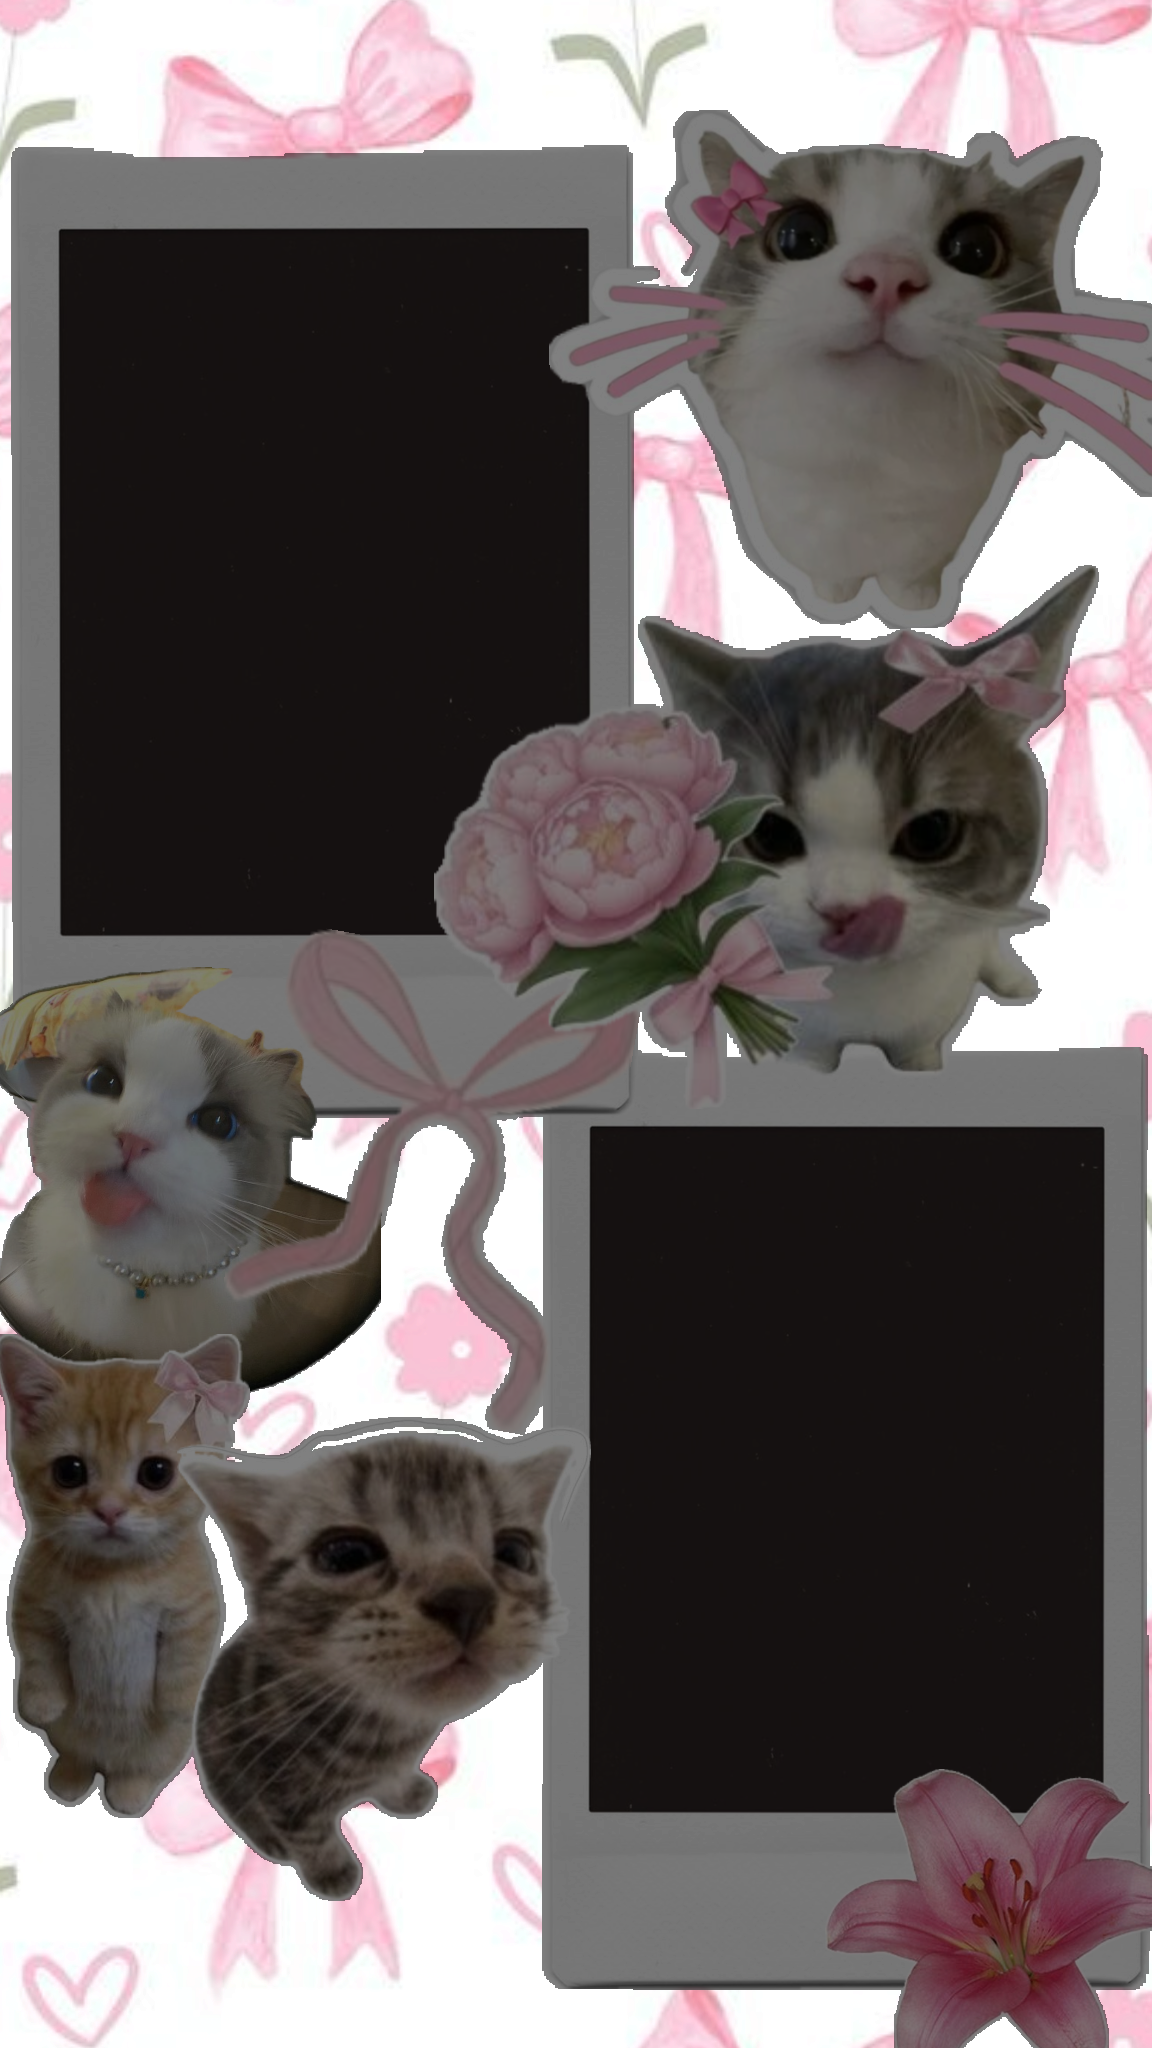
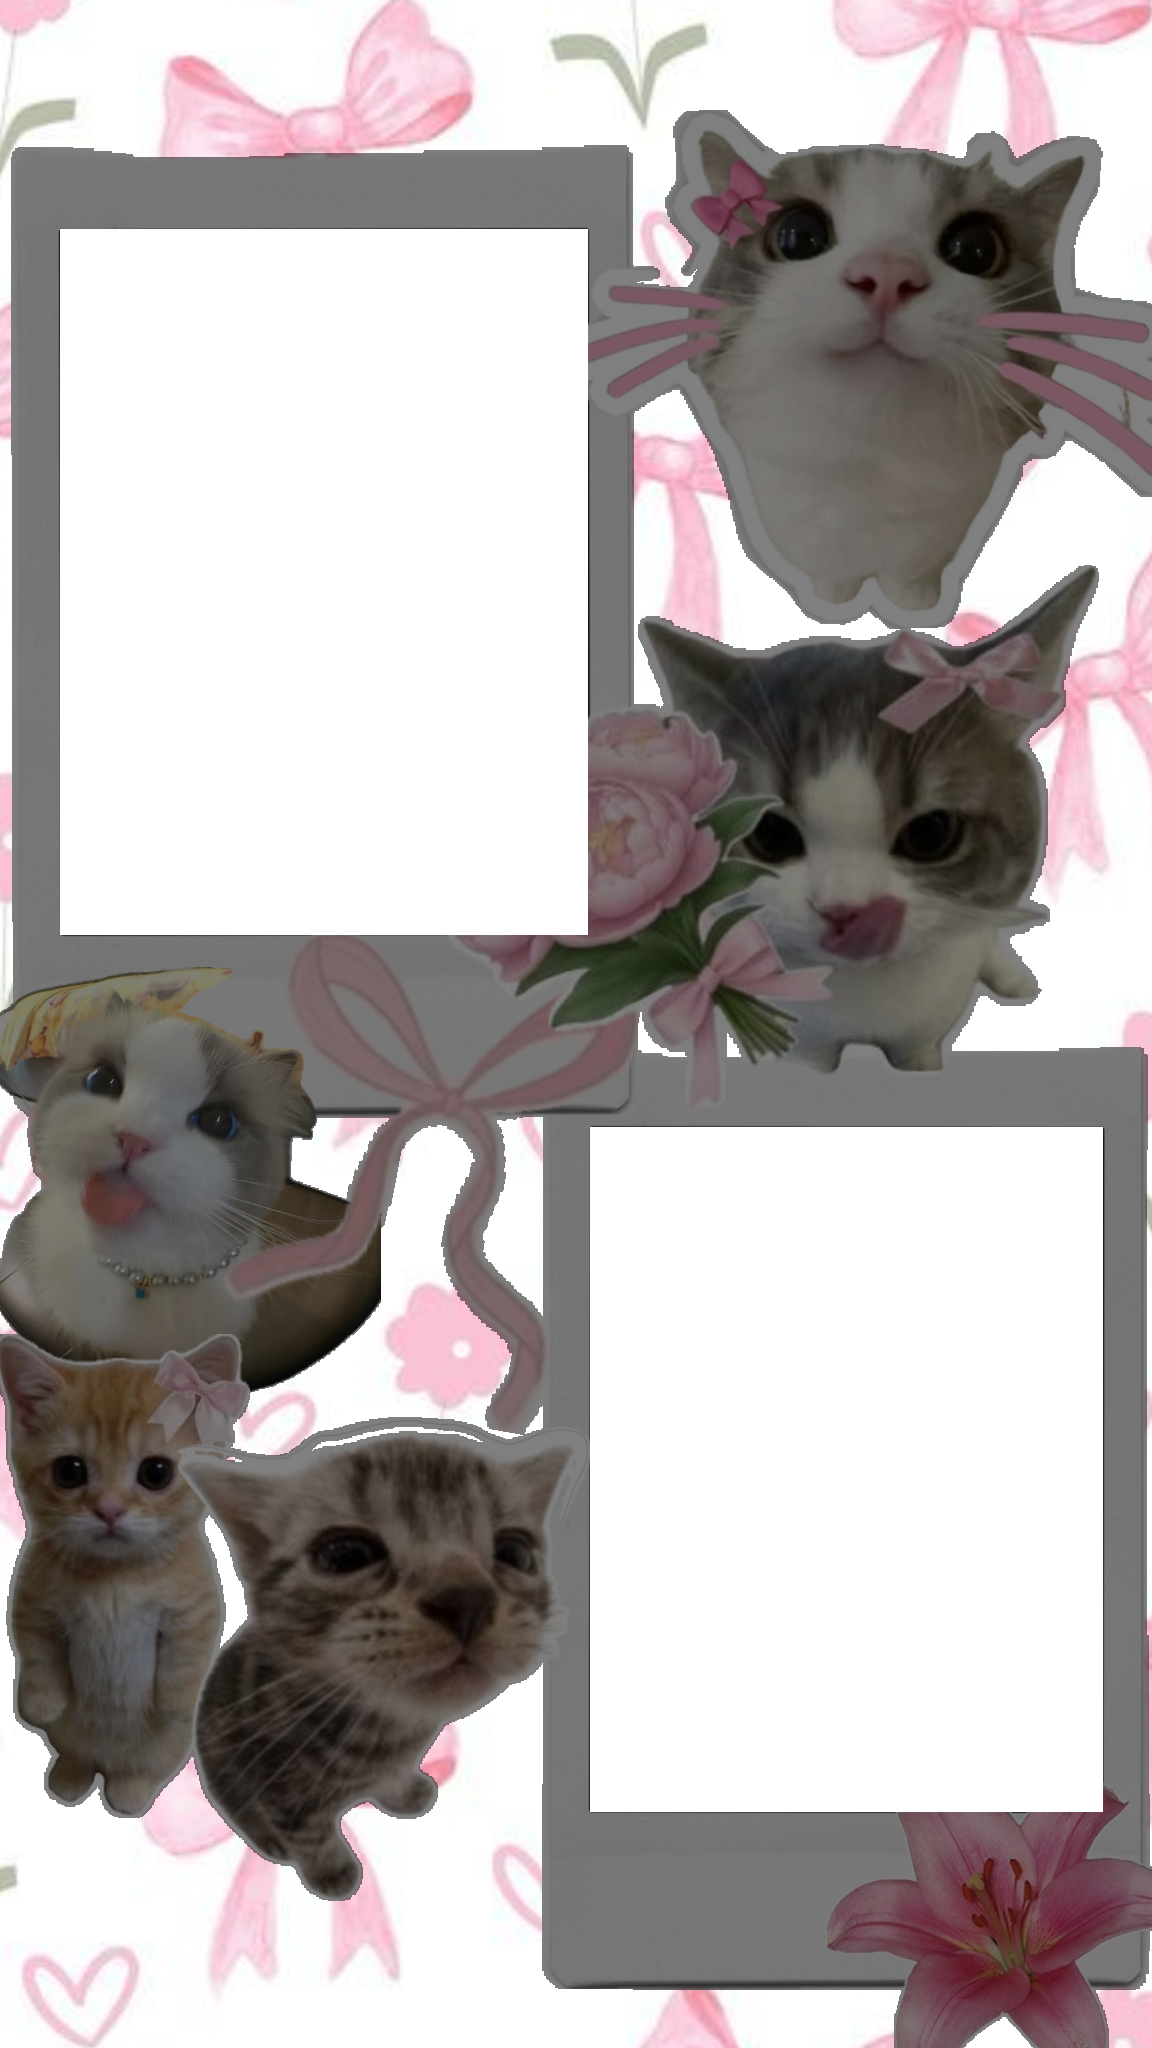
fix: make frame slots transparent and add cutout composite engine so photos appear in all frames

diff --git a/src/lib/compositor.js b/src/lib/compositor.js
@@ -244,9 +244,10 @@ function drawPhotoInSlot(ctx, photo, slot, scale = 1, isMirrored = false) {
   }
   ctx.clip();
 
-  // Hitung cover crop
-  const pw = photo.width;
-  const ph = photo.height;
+  // Dukung photo baik berupa HTMLCanvasElement maupun objek { canvas, isUpload }
+  const imgToDraw = photo.canvas || photo;
+  const pw = imgToDraw.width || photo.width || 800;
+  const ph = imgToDraw.height || photo.height || 600;
   const photoAspect = pw / ph;
   const slotAspect = sw / sh;
 
@@ -263,13 +264,14 @@ function drawPhotoInSlot(ctx, photo, slot, scale = 1, isMirrored = false) {
     dy = sy - (dh - sh) / 2;
   }
 
-  // Handle mirror selfie (Hanya foto yang di-mirror, teks & stiker tidak)
-  if (isMirrored && !photo.isUpload) {
+  // Handle mirror selfie (Hanya foto selfie yang di-mirror, teks & stiker tidak)
+  const isUpload = Boolean(photo.isUpload || imgToDraw.isUpload);
+  if (isMirrored && !isUpload) {
     ctx.translate(dx + dw, dy);
     ctx.scale(-1, 1);
-    ctx.drawImage(photo, 0, 0, dw, dh);
+    ctx.drawImage(imgToDraw, 0, 0, dw, dh);
   } else {
-    ctx.drawImage(photo, dx, dy, dw, dh);
+    ctx.drawImage(imgToDraw, dx, dy, dw, dh);
   }
 
   ctx.restore();
@@ -361,7 +363,33 @@ export async function renderComposite(options) {
   if (frame.file) {
     const frameImg = await loadImage(frame.file);
     if (frameImg) {
-      ctx.drawImage(frameImg, 0, 0, canvasW, canvasH);
+      // Buat canvas sementara untuk frame berlubang (guaranteed transparent slots)
+      const frameCanvas = document.createElement('canvas');
+      frameCanvas.width = canvasW;
+      frameCanvas.height = canvasH;
+      const frameCtx = frameCanvas.getContext('2d');
+      frameCtx.drawImage(frameImg, 0, 0, canvasW, canvasH);
+
+      // Lubangi area slot foto dengan destination-out agar foto di Layer 2 tidak tertutup
+      frameCtx.save();
+      frameCtx.globalCompositeOperation = 'destination-out';
+      frame.slots.forEach(slot => {
+        const sx = Math.round(slot.x * scale);
+        const sy = Math.round(slot.y * scale);
+        const sw = Math.round(slot.width * scale);
+        const sh = Math.round(slot.height * scale);
+        
+        frameCtx.beginPath();
+        if (slot.radius) {
+          frameCtx.roundRect(sx, sy, sw, sh, slot.radius * scale);
+        } else {
+          frameCtx.rect(sx, sy, sw, sh);
+        }
+        frameCtx.fill();
+      });
+      frameCtx.restore();
+
+      ctx.drawImage(frameCanvas, 0, 0);
     }
   }
 

diff --git a/src/lib/download.js b/src/lib/download.js
@@ -88,7 +88,7 @@ export function showIosSaveModal(imageUrl, filename) {
  */
 export async function exportPhotoboothImage(format = 'png', quality = 0.92) {
   const frame = state.currentFrame;
-  const photos = state.capturedPhotos.map(p => p ? p.canvas : null);
+  const photos = state.capturedPhotos;
   const stickers = state.appliedStickers;
   const filter = state.activeFilter;
   const customCaption = state.customCaption;
@@ -131,7 +131,7 @@ export async function sharePhotoboothImage() {
   }
 
   const frame = state.currentFrame;
-  const photos = state.capturedPhotos.map(p => p ? p.canvas : null);
+  const photos = state.capturedPhotos;
   const stickers = state.appliedStickers;
   const filter = state.activeFilter;
   const customCaption = state.customCaption;

diff --git a/src/lib/state.js b/src/lib/state.js
@@ -16,7 +16,7 @@ class AppState {
     this.currentScreen = 'frame-select'; // 'frame-select' | 'camera' | 'result'
     this.selectedFrameId = FRAMES[0].id;
     this.countdownTimer = 3; // 3, 5, 10
-    this.capturedPhotos = []; // array of ImageBitmap or HTMLImageElement
+    this.capturedPhotos = new Array(FRAMES[0].slots.length).fill(null); // array of ImageBitmap or HTMLImageElement
     this.currentSlotIndex = 0;
     this.activeFilter = 'normal'; // 'normal' | 'bw' | 'vintage' | 'soft-pink' | 'warm' | 'dreamy'
     this.appliedStickers = [];

diff --git a/src/data/frames.js b/src/data/frames.js
@@ -277,7 +277,7 @@ export const FRAMES = [
     "nama": "Picnic Berries Trio (3 Polaroid)",
     "kategori": "polaroid",
     "layoutType": "polaroid-3",
-    "file": "./assets/frames/frame-polaroid-picnic.jpg",
+    "file": "./assets/frames/frame-polaroid-picnic.png",
     "lebarPx": 736,
     "tinggiPx": 1304,
     "deskripsi": "Trio polaroid landscape di atas selimut piknik marun berbalut pita dan balon.",

diff --git a/src/screens/result.js b/src/screens/result.js
@@ -124,7 +124,7 @@ export class ResultScreen {
     if (!this.canvasElem) return;
 
     const frame = state.currentFrame;
-    const photos = state.capturedPhotos.map(p => p ? p.canvas : null);
+    const photos = state.capturedPhotos;
     const filter = state.activeFilter;
     const customCaption = state.customCaption;
     const captionFont = state.captionFont;
